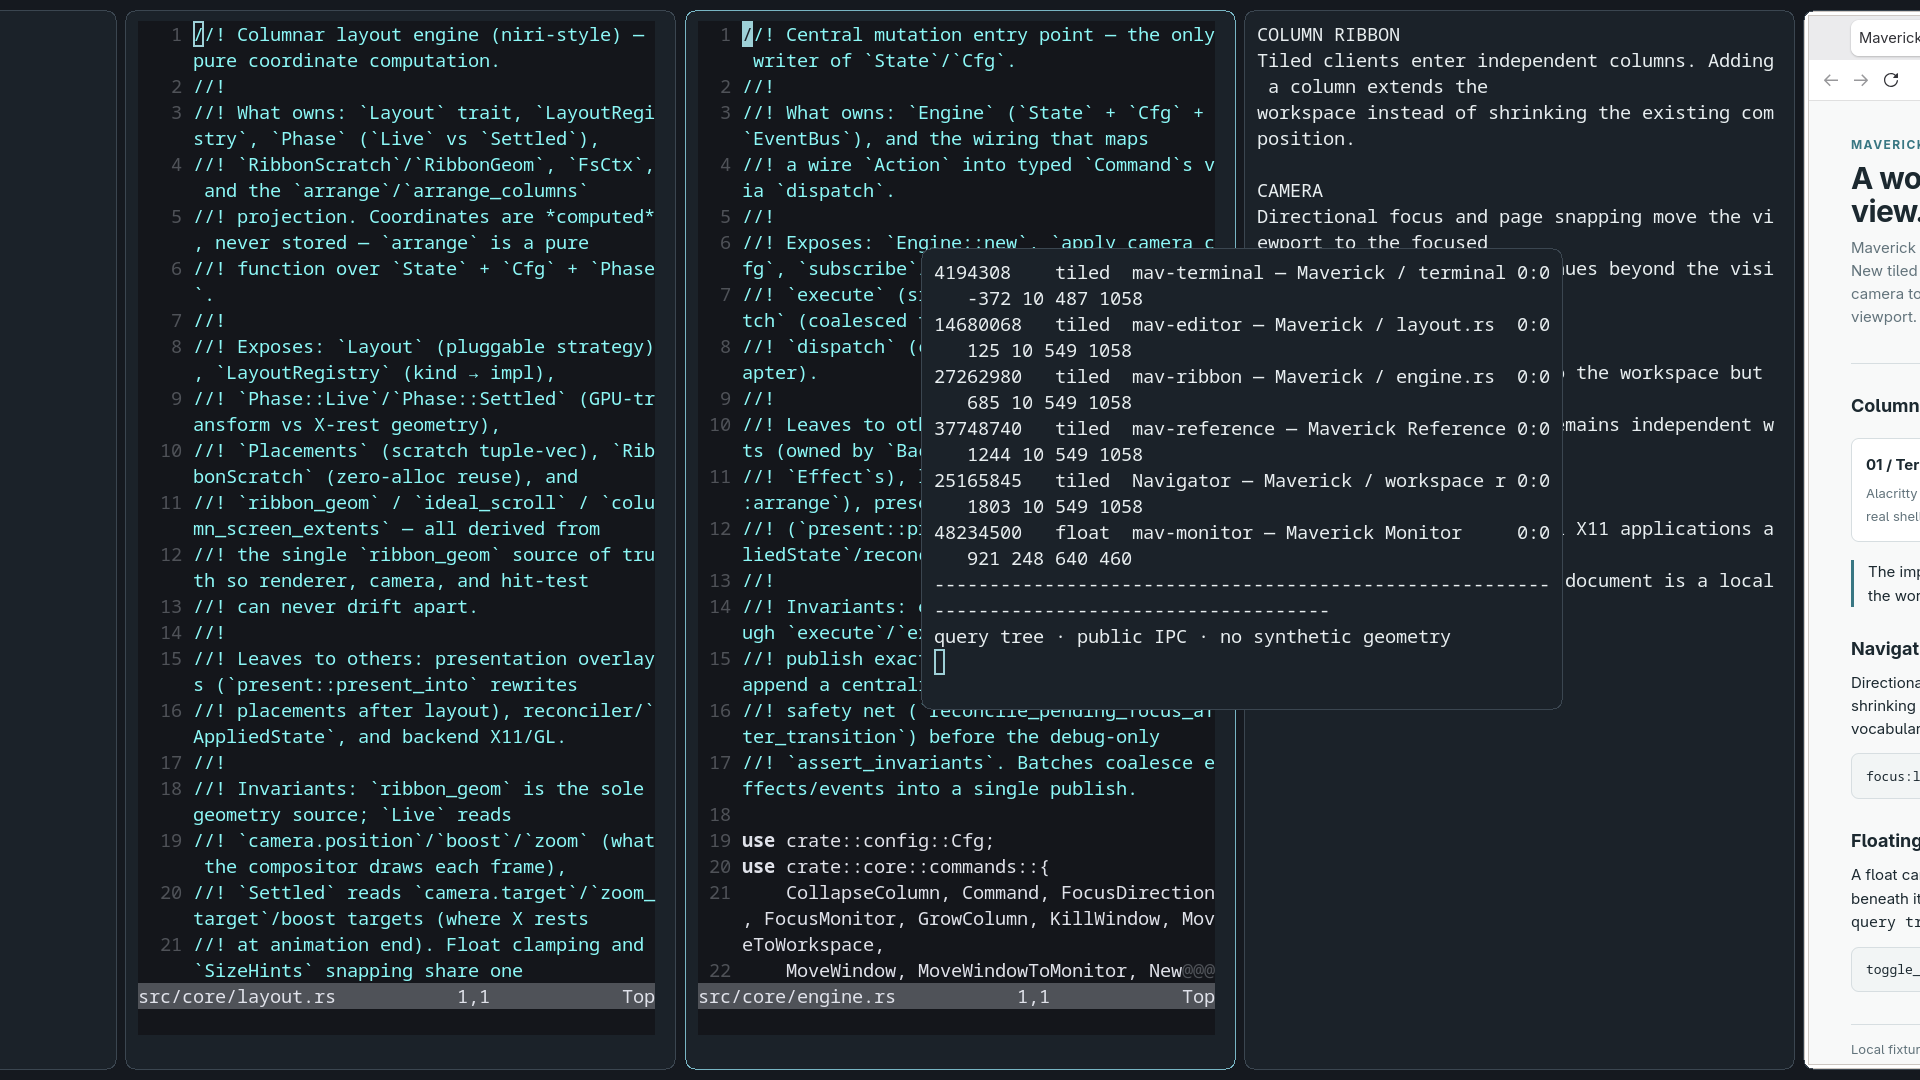
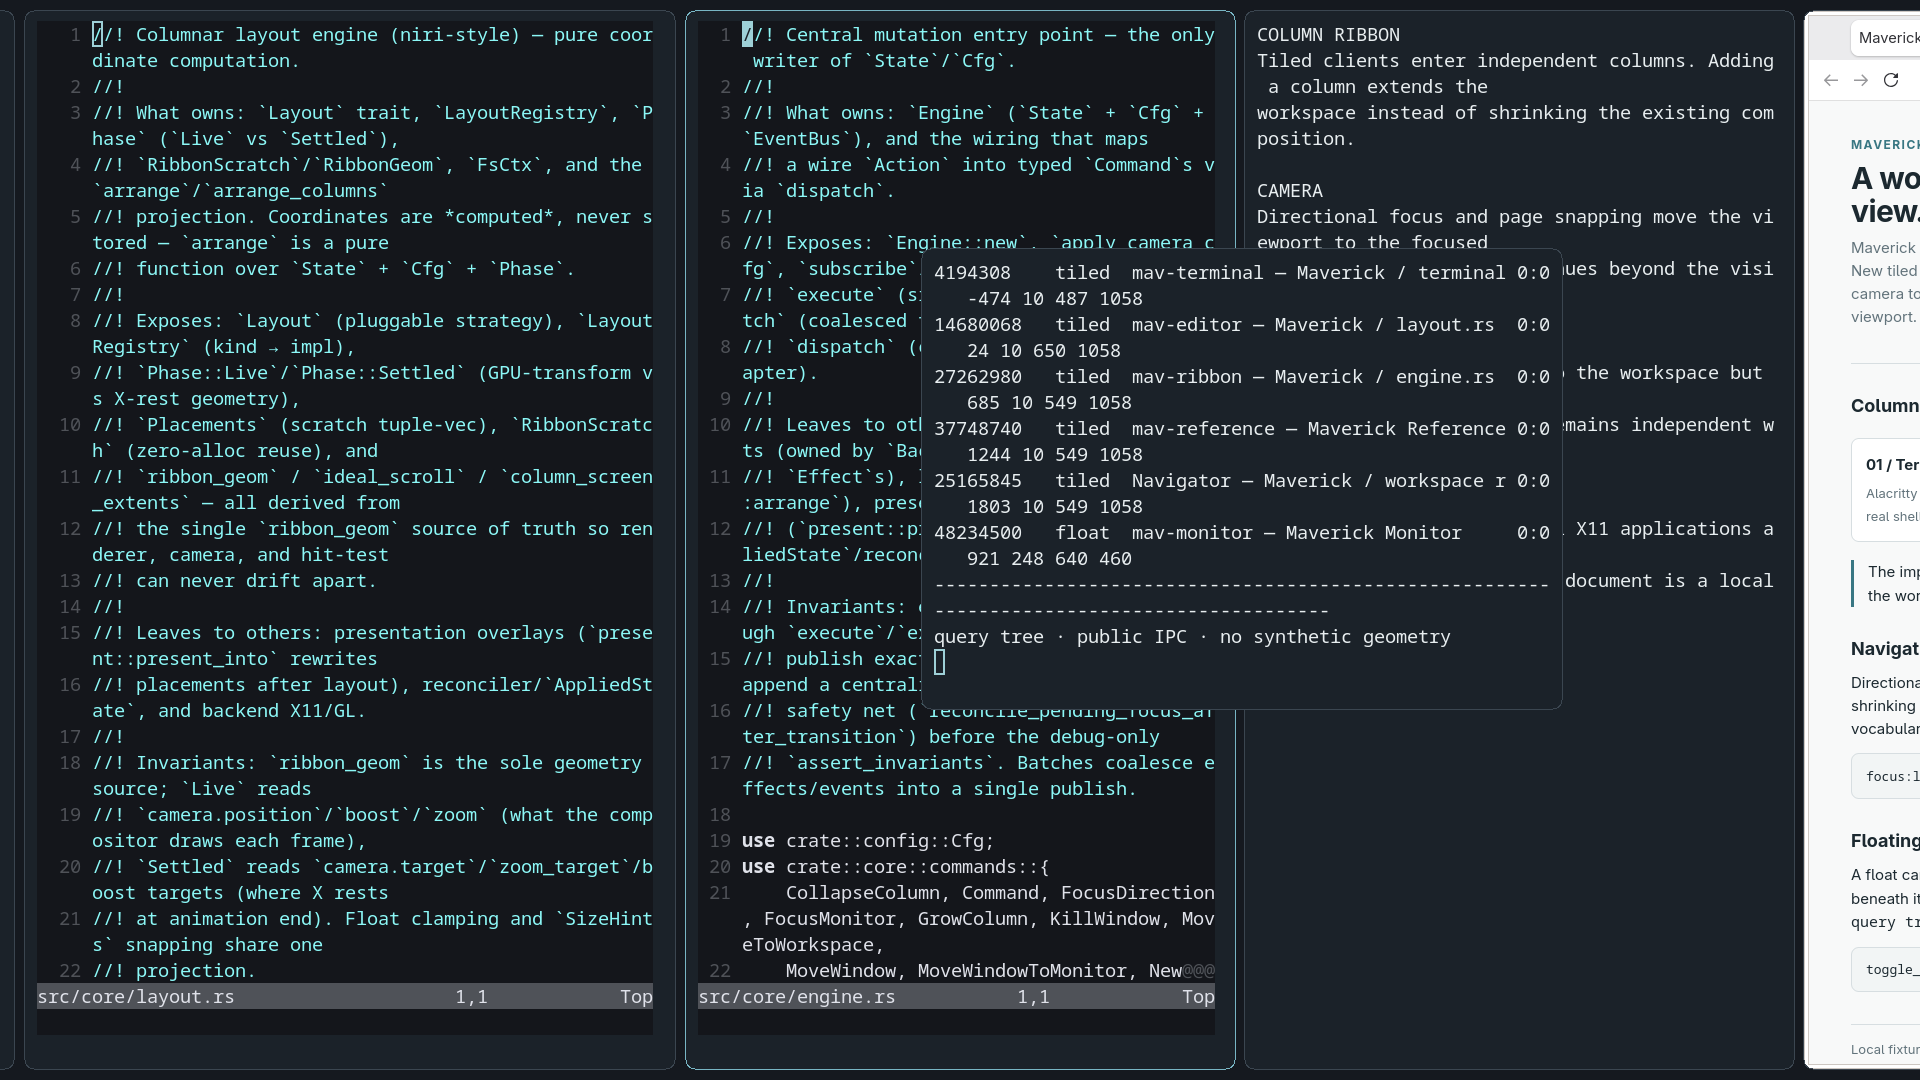
feat(showcase): demonstrate legibility shortcuts
Adds the scene that exercises the legibility keybindings — the shortcuts that
make text readable over wallpaper and decoration — so the capture set shows the
feature rather than only the code implementing it.

diff --git a/showcase/scenes.py b/showcase/scenes.py
@@ -3,6 +3,7 @@
 from __future__ import annotations
 
 from dataclasses import dataclass
+import json
 from pathlib import Path
 import shutil
 import subprocess
@@ -12,7 +13,7 @@ from typing import Any, Callable
 from harness import ROOT, Session, ShowcaseError, run
 
 
-SCENES = ("workspace", "ribbon", "tools", "floating", "hero")
+SCENES = ("workspace", "ribbon", "tools", "legibility", "floating", "hero")
 
 
 @dataclass(frozen=True)
@@ -288,6 +289,54 @@ user_pref("network.proxy.type", 0);
         # floating proof adds another client.
         self.session.capture("tools", "real browser, reference terminal, editor and terminal in one scrollable workspace")
 
+    def legibility_scene(self) -> None:
+        editor = self.ids["editor"]
+        self.session.focus(editor)
+        before = self.session.geometry(editor)
+
+        # These are real WM shortcuts, not direct IPC geometry mutations.
+        self.session.chord("h")
+        self.session.stable([editor])
+        compact = self.session.geometry(editor)
+        if compact[2] >= before[2]:
+            raise ShowcaseError(f"Mod+Ctrl+H did not reduce the focused column: {before} -> {compact}")
+
+        self.session.chord("l", count=3)
+        self.session.stable([editor])
+        after = self.session.geometry(editor)
+        if after[2] <= before[2]:
+            raise ShowcaseError(f"Mod+Ctrl+L did not restore readable width: {before} -> {after}")
+
+        tiled = [
+            entry
+            for entry in self.session.entries(self.session.tree())
+            if not entry.get("float")
+        ]
+        for index, first in enumerate(tiled):
+            ax, ay, aw, ah = first.get("real") or first.get("geom") or (0, 0, 0, 0)
+            for second in tiled[index + 1 :]:
+                bx, by, bw, bh = second.get("real") or second.get("geom") or (0, 0, 0, 0)
+                overlaps = ax < bx + bw and bx < ax + aw and ay < by + bh and by < ay + ah
+                if overlaps:
+                    raise ShowcaseError(f"legibility adjustment created overlap: {first} / {second}")
+
+        (self.session.evidence / "legibility-actions.json").write_text(
+            json.dumps(
+                {
+                    "shortcut_contract": "Mod+Ctrl+H then Mod+Ctrl+L x3",
+                    "window": editor,
+                    "before": before,
+                    "after_compact": compact,
+                    "after_readable": after,
+                    "tiled_windows_checked": len(tiled),
+                },
+                indent=2,
+            )
+            + "\n",
+            encoding="utf-8",
+        )
+        self.session.capture("legibility", "Mod+Ctrl+H/L keeps the focused real client readable")
+
     def floating_scene(self) -> None:
         monitor = self.ids["monitor"]
         self.session.focus(monitor)
@@ -318,9 +367,8 @@ user_pref("network.proxy.type", 0);
         self.session.capture("floating", "a real floating monitor over a moving tiled ribbon")
 
     def hero_scene(self) -> None:
-        self.session.focus(self.ids["editor"])
-        self.session.action("grow_col:180")
-        self.session.stable()
+        # The previous legibility scene already widened the editor through
+        # real keyboard shortcuts; keep that result in the hero composition.
         self.session.focus(self.ids["browser"])
         self.session.stable()
         if self.float_window is None:

diff --git a/showcase/harness.py b/showcase/harness.py
@@ -366,6 +366,27 @@ mode = "fill"
             timeout=10,
         )
 
+    def chord(self, key: str, count: int = 1) -> None:
+        """Inject a real Super+Ctrl+key chord into the nested X server."""
+        for _ in range(count):
+            run(
+                [
+                    "xdotool",
+                    "keydown",
+                    "Super_L",
+                    "keydown",
+                    "Control_L",
+                    "key",
+                    key,
+                    "keyup",
+                    "Control_L",
+                    "keyup",
+                    "Super_L",
+                ],
+                env=self.env,
+                timeout=10,
+            )
+
     def focused(self) -> str | None:
         for monitor in self.state().get("monitors", []):
             focused = monitor.get("focused")

diff --git a/showcase/README.md b/showcase/README.md
@@ -6,7 +6,7 @@ mock-up and not a collection of screenshots with a script painted over them.
 
 ## What it demonstrates
 
-The showcase is a five-step story:
+The showcase is a six-step story:
 
 1. **workspace** — a terminal, a Neovim source window and Firefox form a clean
    three-column mosaic.
@@ -15,11 +15,16 @@ The showcase is a five-step story:
    more work.
 3. **tools** — a real browser, editor, terminal and two purpose-built local
    viewers are shown in the resulting scrollable workspace.
-4. **floating** — the in-tree `Maverick Monitor` is floated through the real
+4. **legibility** — the focused editor is deliberately compacted with the real
+   `Mod+Ctrl+H` shortcut, then expanded with `Mod+Ctrl+L` three times. The
+   harness checks the geometry, checks for tiled overlaps and records the
+   before/compact/after measurements in `legibility-actions.json`.
+5. **floating** — the in-tree `Maverick Monitor` is floated through the real
    `toggle_float` action. Its geometry is compared before and after the tiled
    camera moves; the float must remain stationary.
-5. **hero** — the complete composition uses varied column widths, several real
-   applications, scrolling and the independent floating monitor.
+6. **hero** — the complete composition keeps the readable column width produced
+   by the real shortcut flow, several applications, scrolling and the independent
+   floating monitor.
 
 The captures are root-window screenshots of Maverick's actual output. The only
 post-processing is a deterministic check of the capture dimensions; no windows,

diff --git a/README.es.md b/README.es.md
@@ -665,7 +665,7 @@ fechas de release prometidas:
 
 ## Capturas
 
-El showcase es una presentación técnica de cinco escenas capturada desde una
+El showcase es una presentación técnica de seis escenas capturada desde una
 sesión Xephyr aislada. Son capturas auténticas de la ventana raíz: Maverick
 coloca clientes X11 reales, el harness ejecuta acciones reales y las imágenes no
 se pintan ni se reconstruyen después de capturarlas.
@@ -691,6 +691,15 @@ reales; las vistas de código son terminales reales ejecutando Neovim.
 
 Un paso de foco direccional muestra otra vista del mismo conjunto de
 aplicaciones reales. Es un estado de navegación, no otro escritorio simulado.
+
+### Legibilidad
+
+![Ajuste de legibilidad de Maverick](docs/screenshots/legibility.png)
+
+La escena parte de una composición compacta y utiliza las combinaciones reales
+`Mod+Ctrl+H` y `Mod+Ctrl+L` sobre la columna enfocada. El showcase comprueba
+que la columna se reduce, que `Mod+Ctrl+L` recupera un ancho más cómodo, que
+no aparecen solapamientos y que el contenido real sigue siendo legible.
 
 ### Flotante aislado
 

diff --git a/README.md b/README.md
@@ -614,7 +614,7 @@ release dates:
 
 ## Screenshots
 
-The showcase is a five-scene technical presentation captured from an isolated
+The showcase is a six-scene technical presentation captured from an isolated
 Xephyr session. These are authentic root-window captures: Maverick lays out
 real X11 clients, the harness dispatches real actions, and the images are not
 painted or reconstructed after capture.
@@ -641,6 +641,16 @@ application windows; the source views are real terminals running Neovim.
 A directional-focus step reveals a different view of the same real
 application set. The scene is a navigation state, not a second desktop
 mock-up.
+
+### Legibilidad
+
+![Maverick legibility adjustment](docs/screenshots/legibility.png)
+
+La escena parte de una composición compacta y luego utiliza las combinaciones
+reales `Mod+Ctrl+H` y `Mod+Ctrl+L` sobre la columna enfocada. El showcase
+comprueba que la columna se reduce, que `Mod+Ctrl+L` recupera un ancho más
+cómodo, que no aparecen solapamientos y que el resultado mantiene el contenido
+real legible.
 
 ### Floating isolation
 
